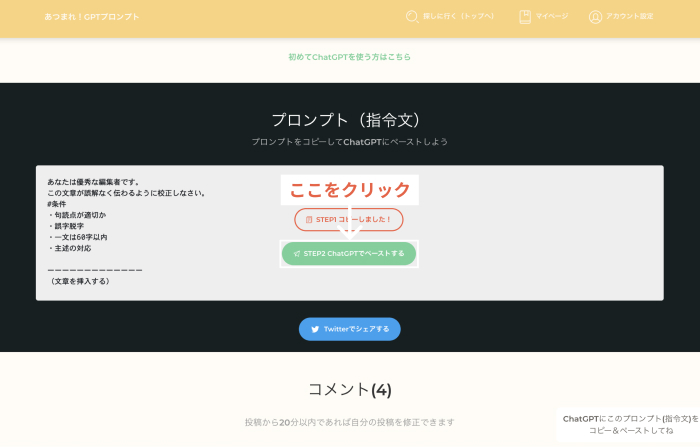
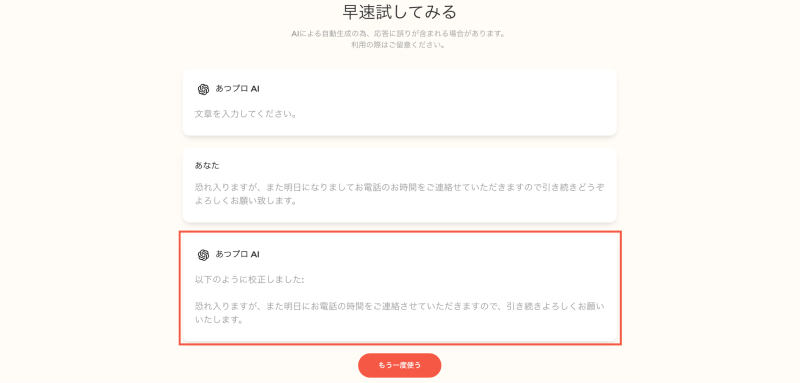
tutorial changed

diff --git a/src/app/blog/blog-detail6/blog-detail6.component.html b/src/app/blog/blog-detail6/blog-detail6.component.html
@@ -65,57 +65,15 @@
         <div class="col-md-8 ml-auto mr-auto">
           <h2>
             <small>ステップ 2</small><br />
-            プロンプトをコピーする
+            プロンプトを試す
           </h2>
           <p>
             <a [routerLink]="['/register']" class="text-primary">無料会員登録</a
-            >した後に、プロンプト（指令文）エリアにある「STEP1
-            プロンプトをコピーする」ボタンを押すことでプロンプトがコピーできます。
+            >をするとプロンプトを試すことができます。
           </p>
-          <div class="card card-plain">
-            <div class="card-img-top">
-              <img class="img" src="./assets/img/tutorial/step2.jpg" />
-            </div>
-          </div>
-        </div>
-        <div class="col-md-8 ml-auto mr-auto">
-          <h2>
-            <small>ステップ 3</small><br />
-            ChatGPTにペーストする
-          </h2>
-          <p>
-            プロンプトがコピーできたので、すぐ下にある「STEP2
-            ChatGPTでペーストする」ボタンを押してChatGPTのページへ移動します。
-          </p>
-          <br />
-          <p>もしChatGPTを今までに使った経験がない場合は、</p>
-          <a class="text-success" [routerLink]="['/blog/how-to-use-chatgpt']">
-            <h3>"はじめてChatGPTを使う方はこちら"</h3></a
-          >
-          <p>からChatGPTの使い方を学ぶことができるのでぜひ読んでみましょう。</p>
-          <div class="card card-plain">
-            <div class="card-img-top">
-              <img class="img" src="./assets/img/tutorial/step3.jpg" />
-            </div>
-          </div>
-        </div>
-        <div class="col-md-8 ml-auto mr-auto">
-          <h2>
-            <small>ステップ 4</small><br />
-            「ChatGPTへの送信手順」通りに操作をして送信
-          </h2>
-          <p>
-            プロンプトの使い方は「ChatGPTへの送信手順」のところに記述されています。<br />
-            今回の説明に使うプロンプトの詳細ページには「ChatGPTにコピペして好みに書き換えてから送信」と書かれています。
-          </p>
-          <div class="card card-plain">
-            <div class="card-img-top">
-              <img class="img" src="./assets/img/tutorial/step4-1.jpg" />
-            </div>
-          </div>
           <p>
             今回は【誤字脱字を直してくれるプロンプト】なので、<br />
-            以下の”誤字脱字が含間れる例文”で実際に試してみましょう。
+            以下の”誤字脱字がある例文”で実際に試してみましょう。
           </p>
           <div class="card-big-shadow">
             <div class="card card-just-text no-transition" data-radius="none">
@@ -145,23 +103,28 @@
             "
           ></app-blog-chat>
 
-          <p>せっかくなので早速試してみましょう。</p>
           <p>
-            プロンプトのコピーは既にできているので、移動したChatGPTのメッセージボックスにペーストし、今回の例文に下の部分を書き換えます。
+            あつプロAIのガイドに従って入力すると、「送信する」ボタンが押せるようになります。
           </p>
-          <div class="card card-plain no-transition">
+          <div class="card card-plain">
             <div class="card-img-top">
-              <img class="img" src="./assets/img/tutorial/step4-2.jpg" />
+              <img class="img" src="./assets/img/tutorial/step2.jpg" />
             </div>
           </div>
-          <p>あとは送信ボタンを押すだけです。</p>
         </div>
         <div class="col-md-8 ml-auto mr-auto">
           <h2>
-            <small>ステップ 5</small><br />
+            <small>ステップ 3</small><br />
             ChatGPTから返答がくる
           </h2>
-          <p>送信してから１秒足らずで以下の返答がきました。</p>
+          <p>送信して1分足らずで以下の返答がきました。</p>
+          <br />
+
+          <div class="card card-plain">
+            <div class="card-img-top">
+              <img class="img" src="./assets/img/tutorial/step3.jpg" />
+            </div>
+          </div>
           <div class="card-big-shadow">
             <div class="card card-just-text no-transition" data-radius="none">
               <div class="card-body">
@@ -177,7 +140,7 @@
                 <h4 class="card-category">↓</h4>
                 <h4 class="card-category">修正後</h4>
                 <h5 class="card-description">
-                  恐れ入りますが、明日に改めてお電話のご連絡のお時間をお知らせいたしますので、引き続きどうぞよろしくお願いいたします。
+                  恐れ入りますが、また明日にお電話の時間をご連絡させていただきますので、引き続きどうぞよろしくお願いいたします。
                 </h5>
               </div>
             </div>
@@ -205,7 +168,7 @@
 
       <div class="text-center" *ngIf="!auth.isAuthenticated()">
         <div class="space-50"></div>
-        <p>\ 今すぐ無料会員登録してプロンプトをGet! /</p>
+        <p>\ 今すぐ無料会員登録してプロンプトを試そう! /</p>
         <a [routerLink]="['/register']" class="btn btn-round btn-wd btn-primary"
           >無料会員登録する</a
         >
